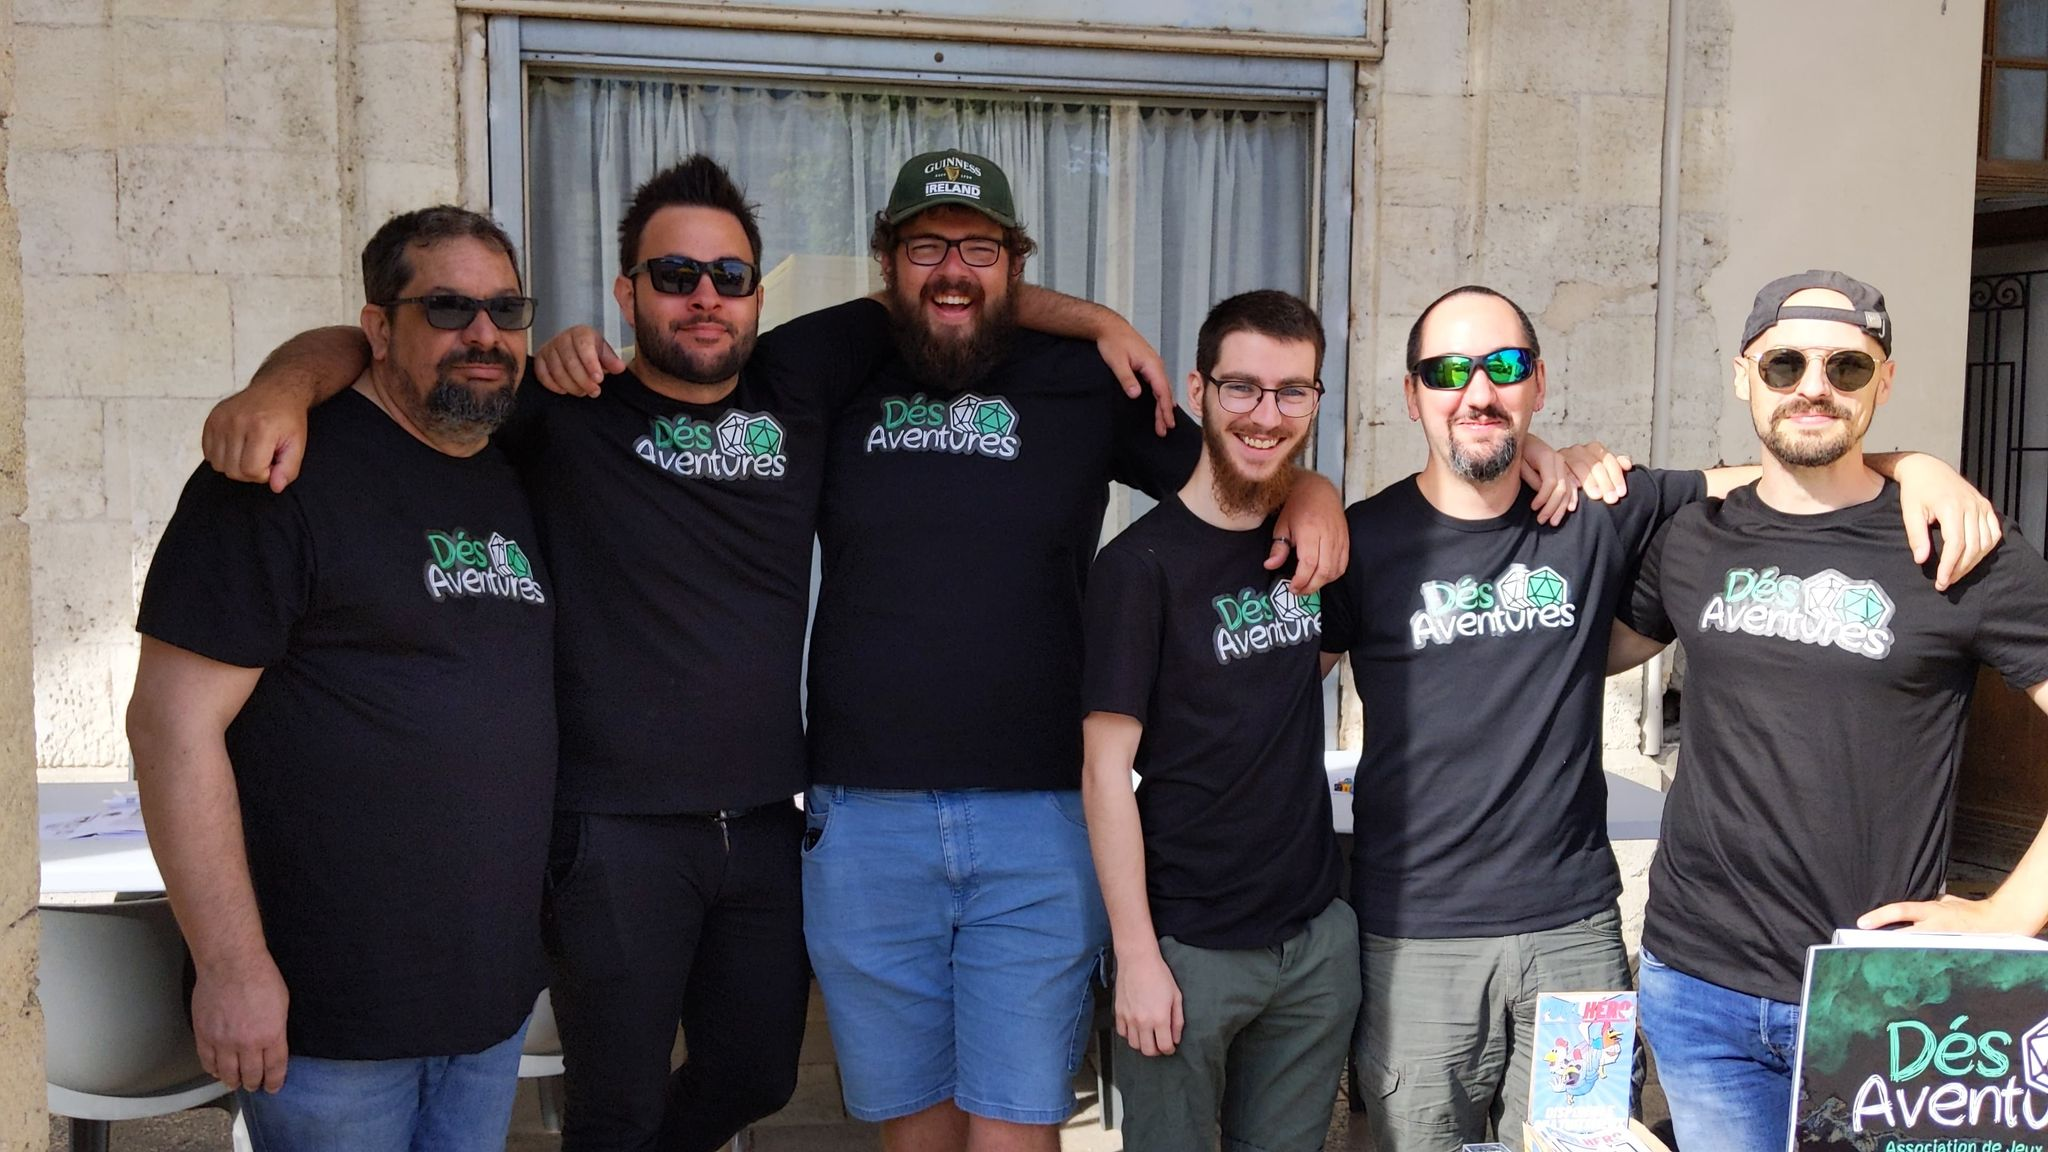
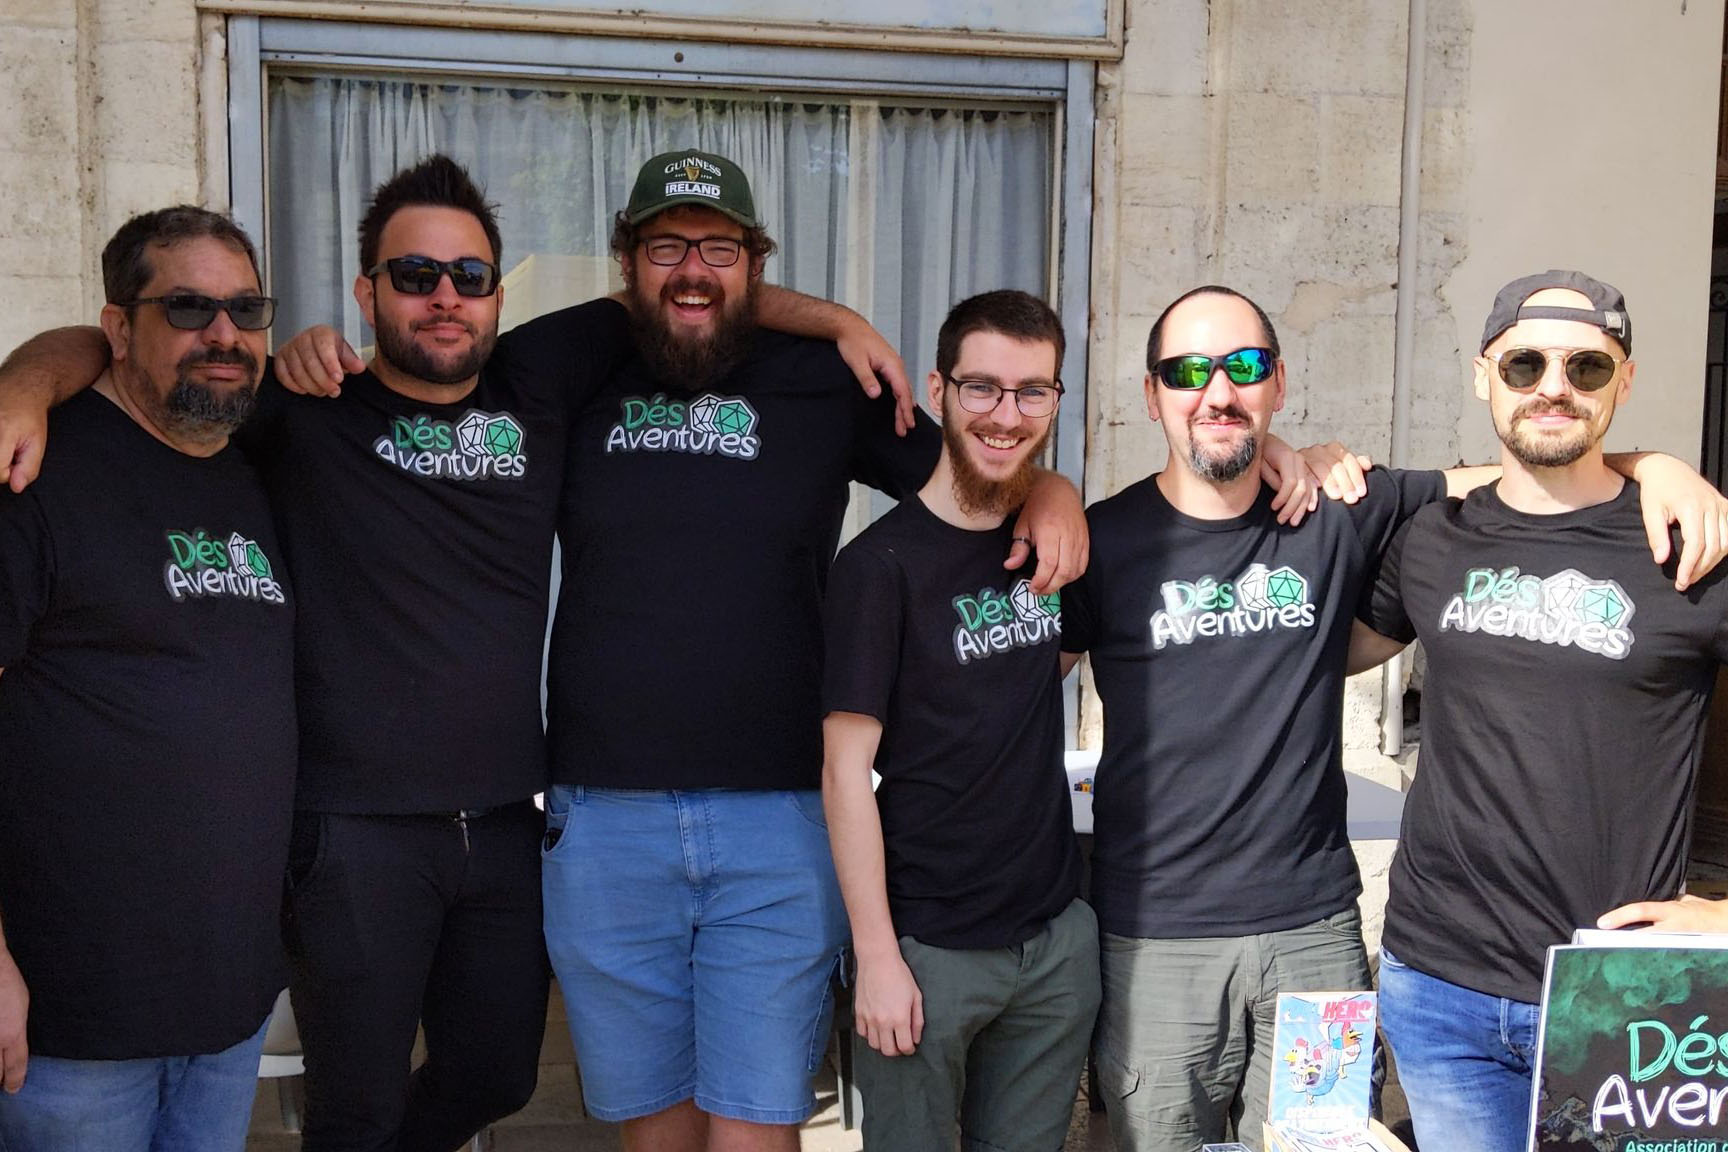
fix: carousel change size

diff --git a/index.html b/index.html
@@ -114,7 +114,7 @@
               <button type="button" data-bs-target="#carouselExampleIndicators" data-bs-slide-to="4" aria-label="Slide 5"></button>
               <button type="button" data-bs-target="#carouselExampleIndicators" data-bs-slide-to="5" aria-label="Slide 6"></button>
             </div>
-            <div class="carousel-inner">
+            <div class="carousel-inner"style="height: max-content">
               <div class="carousel-item active">
                 <img src="../img/img4.jpg" class="d-block w-100" alt="...">
               </div>
